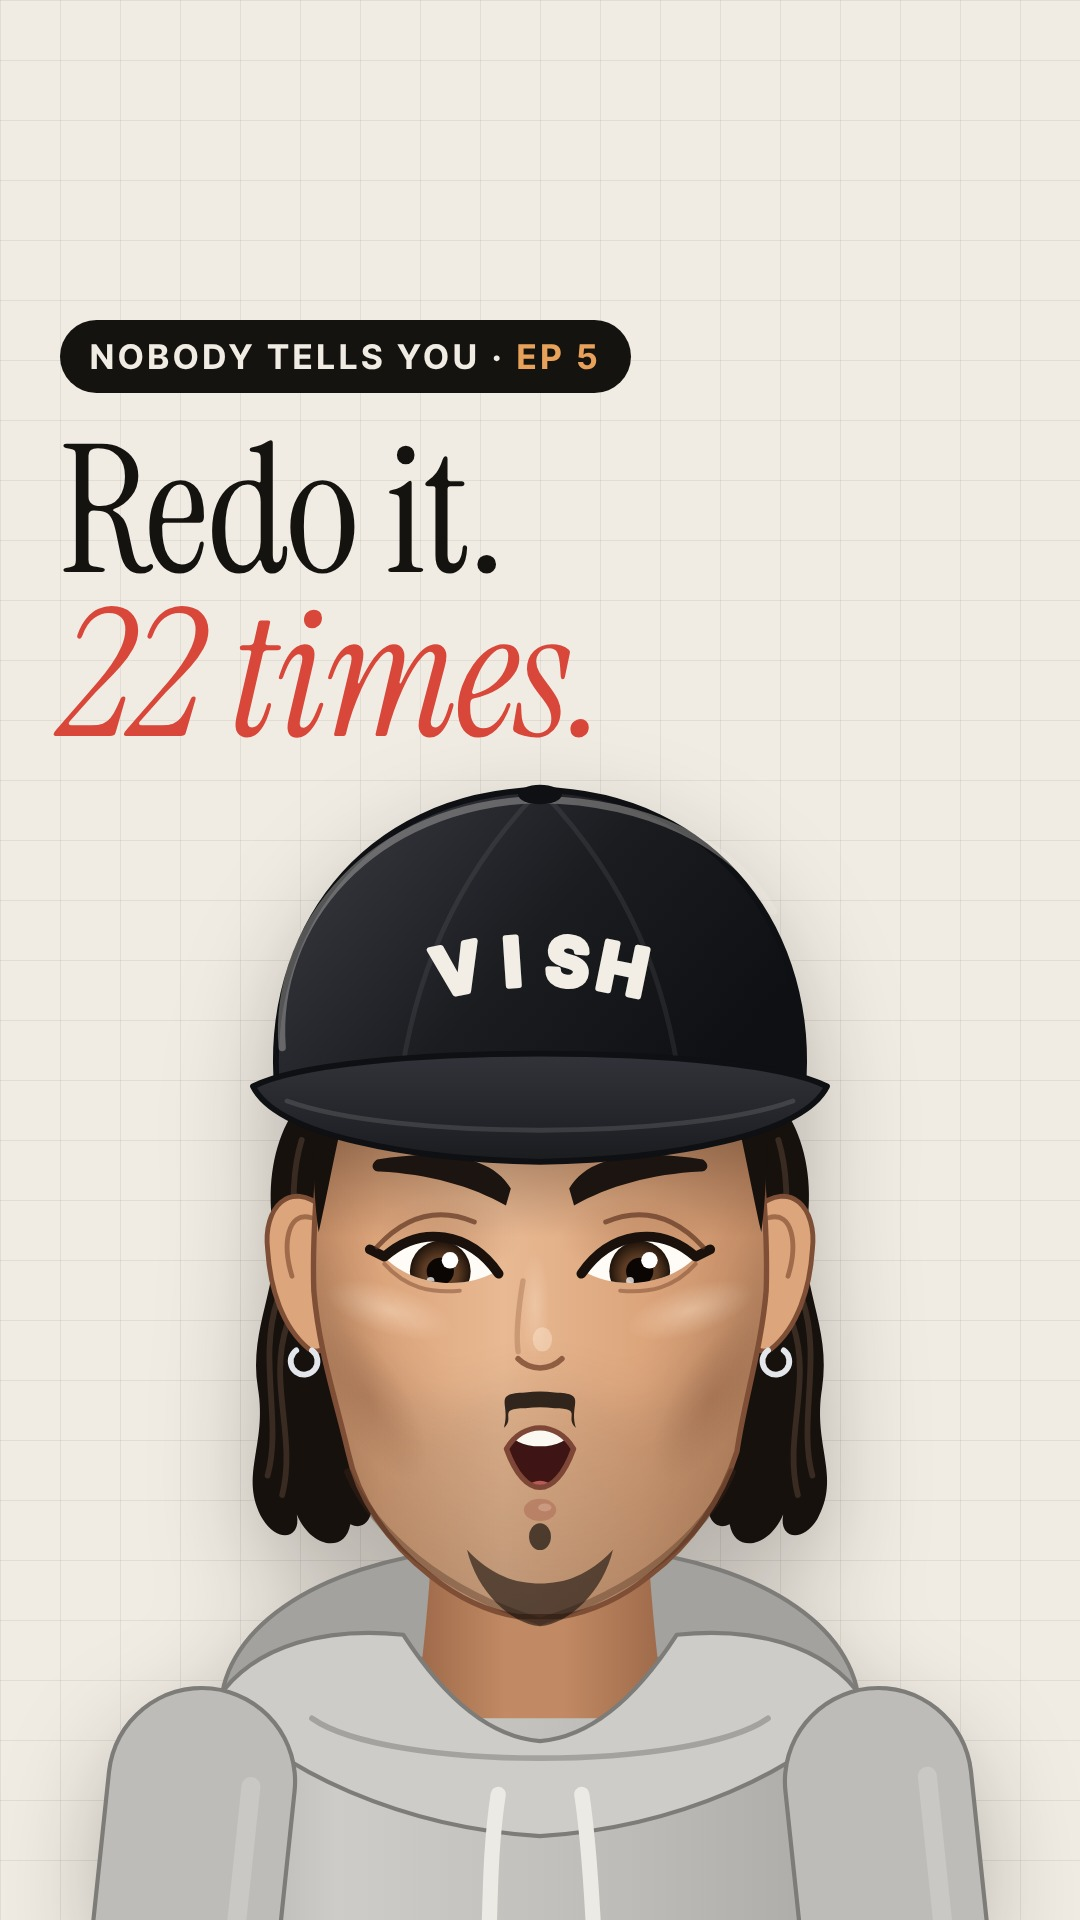
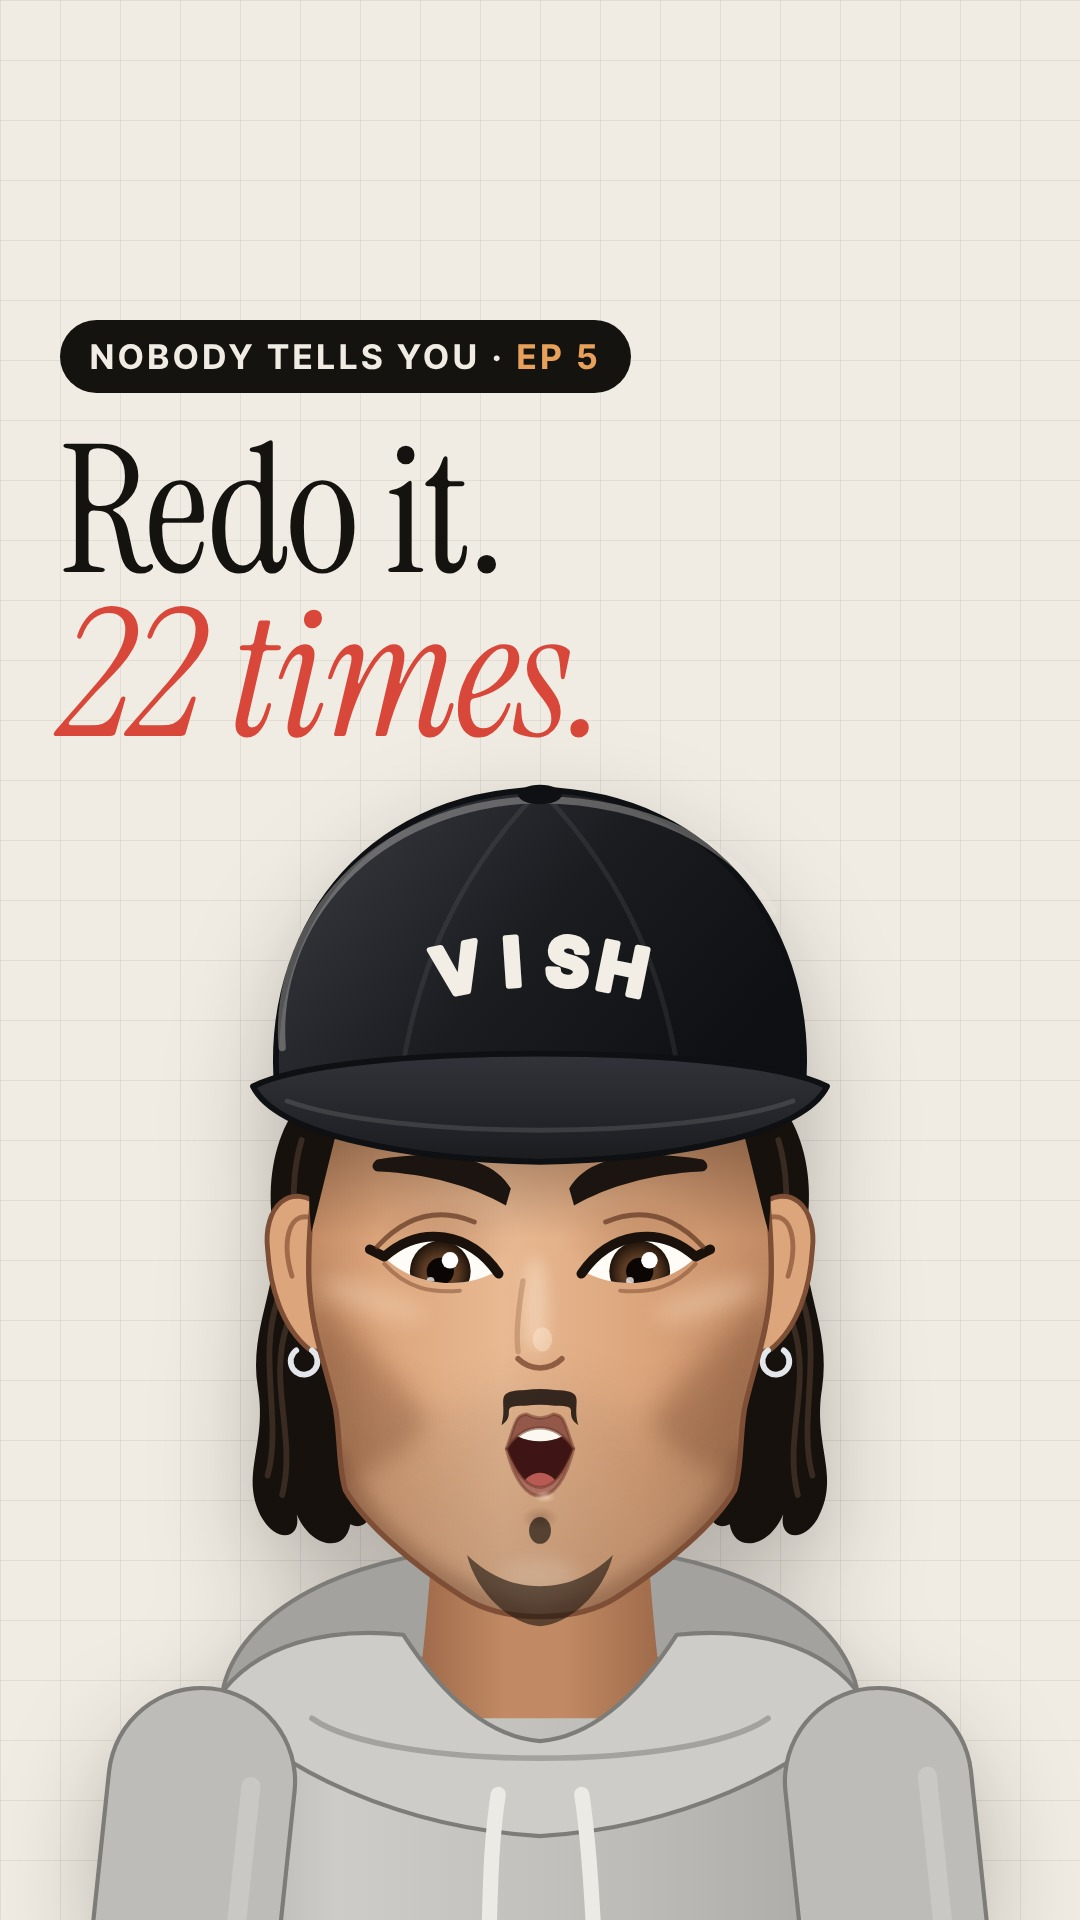
Mascot: real lips (cupid's bow, fuller lower lip), cheekbones with hollows under them, a squared jaw with a clear angle, a lighter beard shade
Claude-Session: https://claude.ai/code/session_01BUA343UgLrj2H1ng6qoZ8Y

diff --git a/templates/video/char/vishcap.js b/templates/video/char/vishcap.js
@@ -66,6 +66,10 @@
     const gr = g.createRadialGradient(0, 0, 0, 0, 0, 1); gr.addColorStop(0, rgb + a + ")"); gr.addColorStop(1, rgb + "0)");
     g.fillStyle = gr; g.beginPath(); g.arc(0, 0, 1, 0, Math.PI * 2); g.fill(); g.restore();
   }
+  function soft(g, path, fill, blur) {  // a painted shade: the path filled and blurred by `blur` rig units
+    const T = g.getTransform(), k = Math.hypot(T.a, T.b);
+    g.save(); g.filter = `blur(${Math.max(0.5, blur * k)}px)`; g.fillStyle = fill; g.fill(path); g.restore();
+  }
   const OFF = new WeakMap();
   function offscreen(g) {  // a scratch canvas the size of the target, for masked layers
     let c = OFF.get(g.canvas);
@@ -118,39 +122,47 @@
       g.restore();
       if (away < 0.5) { g.strokeStyle = C.silver; g.lineWidth = 2.4; g.beginPath(); g.arc(ex + sd * 8, 45, 5.5, -0.3 * Math.PI, 1.3 * Math.PI); g.stroke(); }
     }
-    // ---- the face, a model's: high cheekbones, a slight hollow under them, a sharp jaw, a strong chin
+    // ---- the face, a model's: cheekbones that stand out, a hollow under them, a squared jaw with a clear angle, a strong chin
     const fo = new Path2D();
-    const pts = [[-86, -86], [-90, -50, -94, -12, -93, 16], [-91, 40, -84, 60, -79, 80], [-75, 98, -63, 115, -45, 128], [-33, 137, -21, 142, -9, 144], [9, 144],
-      [21, 142, 33, 137, 45, 128], [63, 115, 75, 98, 81, 80], [84, 60, 91, 40, 93, 16], [94, -12, 90, -50, 86, -86]];
-    fo.moveTo(OX(pts[0][0]), pts[0][1]);
-    for (const p of pts.slice(1)) {
-      if (p.length === 2) fo.lineTo(OX(p[0]), JY(p[1])); else fo.bezierCurveTo(OX(p[0]), JY(p[1]), OX(p[2]), JY(p[3]), OX(p[4]), JY(p[5]));
-    }
+    const L = [[-86, -86], [-90, -50, -96, -14, -95, 12], [-94, 34, -87, 50, -84, 64], [-82, 76, -83, 86, -80, 95], [-72, 108, -52, 124, -32, 136], [-24, 141, -13, 144, 0, 144]];
+    const R2 = [[13, 144, 24, 141, 32, 136], [52, 124, 72, 108, 80, 95], [83, 86, 82, 76, 84, 64], [87, 50, 94, 34, 95, 12], [96, -14, 90, -50, 86, -86]];
+    fo.moveTo(OX(L[0][0]), L[0][1]);
+    for (const p of L.slice(1).concat(R2)) fo.bezierCurveTo(OX(p[0]), JY(p[1]), OX(p[2]), JY(p[3]), OX(p[4]), JY(p[5]));
     fo.closePath();
     const fg = g.createLinearGradient(OX(-96), 0, OX(96), 0);
     fg.addColorStop(0, C.skinS); fg.addColorStop(0.16, C.skin); fg.addColorStop(0.42, C.skinL); fg.addColorStop(0.72, C.skin); fg.addColorStop(1, C.skinS);
     g.fillStyle = fg; g.fill(fo);
     g.save(); g.clip(fo);
-    // contour: a soft shadow under each cheekbone towards the mouth, a light on the bone above it, a light down the nose
+    // the structure, painted like a portrait: the hollow under each cheekbone, the light on the bone, the jaw turning under
     for (const sd of [-1, 1]) {
-      blob(g, OX(sd * 70), JY(60), 15, 38, sd * 0.55, "rgba(118,62,38,", sd * tu > 0 ? 0.3 : 0.22);
-      blob(g, FX(sd * 62), 24, 27, 10, sd * -0.3, "rgba(255,234,210,", 0.42);
+      const X = (x) => OX(sd * x), away = sd * tu > 0;
+      const hol = new Path2D();
+      hol.moveTo(X(96), 20); hol.bezierCurveTo(X(80), 30, X(62), 44, FX(sd * 46), JY(68));
+      hol.bezierCurveTo(X(52), JY(80), X(68), JY(88), X(84), JY(92)); hol.bezierCurveTo(X(90), 64, X(95), 42, X(96), 20); hol.closePath();
+      soft(g, hol, `rgba(112,58,34,${away ? 0.36 : 0.27})`, 5);
+      const bone = new Path2D(); bone.ellipse(FX(sd * 68), 20, 22, 6.5, sd * -0.32, 0, Math.PI * 2);
+      soft(g, bone, "rgba(250,222,192,.34)", 4);
     }
-    blob(g, FX(-2) + tu * 8, 22, 6, 22, 0, "rgba(255,236,214,", 0.3);
-    // stubble: a short, even shadow on the jaw, chin, upper lip and up the cheeks to the sideburns, fading at the cheekbones
+    const jl = new Path2D();
+    jl.moveTo(OX(-86), JY(84)); jl.bezierCurveTo(OX(-74), JY(112), OX(-44), JY(136), FX(0), JY(148));
+    jl.bezierCurveTo(OX(44), JY(136), OX(74), JY(112), OX(86), JY(84));
+    g.save(); const T0 = g.getTransform(), k0 = Math.hypot(T0.a, T0.b); g.filter = `blur(${Math.max(1, 3.5 * k0)}px)`;
+    g.strokeStyle = "rgba(92,48,30,.32)"; g.lineWidth = 13; g.stroke(jl); g.restore();
+    soft(g, (() => { const c = new Path2D(); c.ellipse(FX(0), JY(128), 16, 7, 0, 0, Math.PI * 2); return c; })(), "rgba(255,236,214,.35)", 4);  // light on the chin
+    soft(g, (() => { const c = new Path2D(); c.ellipse(FX(-2) + tu * 8, 22, 5, 20, 0, 0, Math.PI * 2); return c; })(), "rgba(255,238,218,.42)", 3);  // light down the nose
+    // a light, clean beard shade on the jaw, chin and upper lip, fading out up the cheeks
     const bd = new Path2D();
-    bd.moveTo(OX(-96), -24); bd.bezierCurveTo(OX(-86), 18, OX(-66), 48, FX(-38), JY(64));
-    bd.bezierCurveTo(FX(-28), 58, FX(-16), 52, FX(0), 52); bd.bezierCurveTo(FX(16), 52, FX(28), 58, FX(38), JY(64));
-    bd.bezierCurveTo(OX(66), 48, OX(86), 18, OX(96), -24); bd.lineTo(OX(120), 170); bd.lineTo(OX(-120), 170); bd.closePath();
-    // drawn through a soft mask (the region, blurred) so it fades up the cheeks with no edge
+    bd.moveTo(OX(-96), 4); bd.bezierCurveTo(OX(-88), 40, OX(-68), 62, FX(-36), JY(66));
+    bd.bezierCurveTo(FX(-28), 58, FX(-16), 52, FX(0), 52); bd.bezierCurveTo(FX(16), 52, FX(28), 58, FX(36), JY(66));
+    bd.bezierCurveTo(OX(68), 62, OX(88), 40, OX(96), 4); bd.lineTo(OX(120), 170); bd.lineTo(OX(-120), 170); bd.closePath();
     const T = g.getTransform(), k = Math.hypot(T.a, T.b), oc = offscreen(g), o2 = oc.getContext("2d");
     o2.setTransform(1, 0, 0, 1, 0, 0); o2.clearRect(0, 0, oc.width, oc.height); o2.setTransform(T);
     o2.filter = `blur(${Math.max(1, 9 * k)}px)`; o2.fillStyle = "#000"; o2.fill(bd); o2.filter = "none";
     o2.globalCompositeOperation = "source-in";
     const sg = o2.createRadialGradient(FX(0), 6, 50, FX(0), 30, 150);
-    sg.addColorStop(0, "rgba(40,26,18,.07)"); sg.addColorStop(0.5, "rgba(40,26,18,.17)"); sg.addColorStop(1, "rgba(34,22,16,.27)");
+    sg.addColorStop(0, "rgba(40,26,18,.06)"); sg.addColorStop(0.5, "rgba(40,26,18,.14)"); sg.addColorStop(1, "rgba(34,22,16,.22)");
     o2.fillStyle = sg; o2.fillRect(-150, -60, 300, 240);
-    o2.globalCompositeOperation = "source-atop"; o2.globalAlpha = 0.28; o2.fillStyle = stubble(o2); o2.fillRect(-150, -60, 300, 240);
+    o2.globalCompositeOperation = "source-atop"; o2.globalAlpha = 0.22; o2.fillStyle = stubble(o2); o2.fillRect(-150, -60, 300, 240);
     o2.globalAlpha = 1; o2.globalCompositeOperation = "source-over";
     g.save(); g.setTransform(1, 0, 0, 1, 0, 0); g.drawImage(oc, 0, 0); g.restore();
     // the cap's shadow on the forehead and the eye sockets
@@ -159,13 +171,10 @@
     for (const sd of [-1, 1]) blob(g, FX(sd * 38), -6, 30, 16, 0, "rgba(110,60,36,", 0.16);
     g.restore();
     g.strokeStyle = C.line; g.lineWidth = 2.2; g.stroke(fo);
-    // a crisp jaw: a darker line under the jaw edge where it meets the neck
-    g.strokeStyle = "rgba(70,40,26,.35)"; g.lineWidth = 3;
-    g.beginPath(); g.moveTo(OX(-79), JY(88)); g.bezierCurveTo(OX(-68), JY(112), OX(-40), JY(134), FX(0), JY(146)); g.bezierCurveTo(OX(40), JY(134), OX(68), JY(112), OX(79), JY(88)); g.stroke();
-    // sideburns in front of the ears, under the cap, faded into the stubble
+    // sideburns in front of the ears, under the cap, faded into the beard shade
     for (const sd of [-1, 1]) {
-      g.fillStyle = C.hair; g.beginPath(); g.moveTo(OX(sd * 89), -82); g.bezierCurveTo(OX(sd * 94), -56, OX(sd * 94), -30, OX(sd * 91), -8);
-      g.bezierCurveTo(OX(sd * 86), -30, OX(sd * 81), -60, OX(sd * 74), -82); g.closePath(); g.fill();
+      g.fillStyle = C.hair; g.beginPath(); g.moveTo(OX(sd * 89), -82); g.bezierCurveTo(OX(sd * 95), -56, OX(sd * 96), -30, OX(sd * 94), -8);
+      g.bezierCurveTo(OX(sd * 88), -30, OX(sd * 82), -60, OX(sd * 74), -82); g.closePath(); g.fill();
     }
 
     // ---- eyes, brows
@@ -267,67 +276,75 @@
     g.fillStyle = C.brow; g.fill(b);
   }
 
-  // the mouth: o open, w wide, s smile (-1 frown .. 1 smile), r round, a asymmetry (smirk), f lower lip under the teeth
+  // the mouth: o open, w wide, s smile (-1 frown .. 1 smile), r round, a asymmetry (smirk), f lower lip under the teeth.
+  // Real lips: an upper lip with a cupid's bow, a fuller lower lip with a highlight, both following the opening.
   function mouth(g, FX, JY, m) {
-    const y0 = 81, o = m.o, hw = 21 + 12 * m.w - 9 * m.r, sm = m.s;
+    const y0 = 81, o = m.o, hw = 21 + 12 * m.w - 9 * m.r, sm = m.s, op = cl(o / 0.15);
     const lc = [FX(-hw), y0 - sm * 6 + m.a * 5], rc = [FX(hw), y0 - sm * 6 - m.a * 6];
+    const cxm = FX(0) + m.a * 3, seam = y0 + sm * 7 + 1;
     const topY = y0 - 1 - o * 4 - m.r * o * 5, botY = JY(y0 + 2 + o * 28 + Math.max(0, sm) * 3 * o);
-    const cxm = FX(0) + m.a * 3;
+    const tY = lerp(seam, topY - m.r * 6, op), bY = lerp(seam, botY + 2, op), bx = lerp(0.45, 0.6 - m.r * 0.15, op);
+    const top = [[cxm - hw * 0.5, tY], [cxm + hw * 0.5, tY]], bot = [[cxm - hw * bx, bY], [cxm + hw * bx, bY]];
+    const midT = (lc[1] + 6 * tY + rc[1]) / 8, midB = (lc[1] + 6 * bY + rc[1]) / 8;
+    const tU = 7.5 * (1 - 0.3 * m.w) * (1 - 0.3 * op), tL = 9.5 * (1 - 0.3 * m.w) * (1 - 0.15 * op);
     // smile lines beside the corners
     if (sm > 0.5) {
-      g.strokeStyle = `rgba(140,84,56,${0.32 * (sm - 0.5) * 2})`; g.lineWidth = 2; g.lineCap = "round";
-      for (const [c, sd] of [[lc, -1], [rc, 1]]) { g.beginPath(); g.moveTo(c[0] + sd * 3, c[1] - 20); g.quadraticCurveTo(c[0] + sd * 10, c[1] - 5, c[0] + sd * 5, c[1] + 8); g.stroke(); }
+      g.strokeStyle = `rgba(140,84,56,${0.3 * (sm - 0.5) * 2})`; g.lineWidth = 2; g.lineCap = "round";
+      for (const [c, sd] of [[lc, -1], [rc, 1]]) { g.beginPath(); g.moveTo(c[0] + sd * 4, c[1] - 22); g.quadraticCurveTo(c[0] + sd * 11, c[1] - 6, c[0] + sd * 6, c[1] + 8); g.stroke(); }
     }
-    let lowerTop;
-    if (o < 0.05) {
-      if (m.teeth && sm > 0.6) {  // a closed smile that shows the top teeth
-        const sh = new Path2D(); sh.moveTo(lc[0], lc[1]); sh.bezierCurveTo(cxm - hw * 0.5, y0 + 2, cxm + hw * 0.5, y0 + 2, rc[0], rc[1]);
-        sh.bezierCurveTo(cxm + hw * 0.5, y0 + 13, cxm - hw * 0.5, y0 + 13, lc[0], lc[1]); sh.closePath();
-        g.fillStyle = C.mouthIn; g.fill(sh); g.save(); g.clip(sh); g.fillStyle = C.teeth; g.fillRect(lc[0] - 4, y0 - 6, hw * 2 + 8, 13); g.restore();
-        g.strokeStyle = C.lipD; g.lineWidth = 2.2; g.stroke(sh); lowerTop = y0 + 10;
-      } else {
-        g.strokeStyle = C.lipD; g.lineWidth = 3; g.lineCap = "round";
-        g.beginPath(); g.moveTo(lc[0], lc[1]); g.bezierCurveTo(cxm - hw * 0.45, y0 + sm * 7 + 1, cxm + hw * 0.45, y0 + sm * 7 + 1, rc[0], rc[1]); g.stroke();
-        lowerTop = y0 + 2 + Math.max(0, sm) * 5;
-      }
-    } else {
+    // the opening, the teeth, the tongue
+    if (o > 0.02) {
       const mp = new Path2D();
-      mp.moveTo(lc[0], lc[1]);
-      mp.bezierCurveTo(cxm - hw * 0.5, topY - m.r * 6, cxm + hw * 0.5, topY - m.r * 6, rc[0], rc[1]);
-      mp.bezierCurveTo(cxm + hw * (0.6 - m.r * 0.15), botY + 2, cxm - hw * (0.6 - m.r * 0.15), botY + 2, lc[0], lc[1]);
-      mp.closePath();
+      mp.moveTo(lc[0], lc[1]); mp.bezierCurveTo(top[0][0], top[0][1], top[1][0], top[1][1], rc[0], rc[1]);
+      mp.bezierCurveTo(bot[1][0], bot[1][1], bot[0][0], bot[0][1], lc[0], lc[1]); mp.closePath();
       g.fillStyle = C.mouthIn; g.fill(mp);
       g.save(); g.clip(mp);
-      g.fillStyle = C.teeth; g.beginPath(); g.ellipse(cxm, topY - 2, hw * 0.92, 9.5 - m.r * 3, 0, 0, Math.PI * 2); g.fill();  // the upper teeth
-      if (m.f > 0.3) { g.fillStyle = C.lip; g.beginPath(); g.ellipse(cxm, topY + 10, hw * 0.8, 7, 0, 0, Math.PI * 2); g.fill(); }
-      g.fillStyle = C.tongue; g.beginPath(); g.ellipse(cxm, botY + 3, hw * 0.6, 4 + o * 10, 0, 0, Math.PI * 2); g.fill();
+      g.fillStyle = C.teeth; g.beginPath(); g.ellipse(cxm, midT - 1, hw * 0.92, 9.5 - m.r * 3, 0, 0, Math.PI * 2); g.fill();
+      if (m.f > 0.3) { g.fillStyle = C.lip; g.beginPath(); g.ellipse(cxm, midT + 10, hw * 0.8, 7, 0, 0, Math.PI * 2); g.fill(); }
+      g.fillStyle = C.tongue; g.beginPath(); g.ellipse(cxm, midB + 3, hw * 0.6, 4 + o * 10, 0, 0, Math.PI * 2); g.fill();
       g.restore();
-      g.strokeStyle = C.lipD; g.lineWidth = 2.2; g.stroke(mp); lowerTop = botY + 1;
     }
-    // the lower lip: a soft shape and a highlight
-    g.fillStyle = "rgba(164,92,74,.42)"; g.beginPath(); g.ellipse(cxm, lowerTop + 5, hw * 0.48, 4.6, 0, 0, Math.PI * 2); g.fill();
-    g.fillStyle = "rgba(255,226,206,.25)"; g.beginPath(); g.ellipse(cxm + 2, lowerTop + 4, hw * 0.2, 1.6, 0, 0, Math.PI * 2); g.fill();
-    // the moustache: thin, the ends down to the mouth corners; it rides up with the upper lip
+    // the upper lip: a cupid's bow above the opening
+    const ul = new Path2D();
+    ul.moveTo(lc[0], lc[1]);
+    ul.bezierCurveTo(lc[0] + hw * 0.3, midT - tU * 0.65, cxm - 10, midT - tU, cxm - 5.5, midT - tU - 0.6);
+    ul.quadraticCurveTo(cxm, midT - tU + 2.6, cxm + 5.5, midT - tU - 0.6);
+    ul.bezierCurveTo(cxm + 10, midT - tU, rc[0] - hw * 0.3, midT - tU * 0.65, rc[0], rc[1]);
+    ul.bezierCurveTo(top[1][0], top[1][1], top[0][0], top[0][1], lc[0], lc[1]); ul.closePath();
+    g.fillStyle = "#93584A"; g.fill(ul); g.strokeStyle = "rgba(108,56,42,.55)"; g.lineWidth = 1.3; g.stroke(ul);
+    // the lower lip: fuller, lighter, a highlight, a soft shadow under it
+    const ll = new Path2D();
+    ll.moveTo(lc[0], lc[1]); ll.bezierCurveTo(bot[0][0], bot[0][1], bot[1][0], bot[1][1], rc[0], rc[1]);
+    ll.bezierCurveTo(cxm + hw * 0.55, midB + tL * 1.3, cxm - hw * 0.55, midB + tL * 1.3, lc[0], lc[1]); ll.closePath();
+    blob(g, cxm, midB + tL + 5, hw * 0.55, 5, 0, "rgba(90,46,30,", 0.3);
+    g.fillStyle = "#AD6F61"; g.fill(ll); g.strokeStyle = "rgba(108,56,42,.5)"; g.lineWidth = 1.3; g.stroke(ll);
+    blob(g, cxm + 2, midB + tL * 0.5, hw * 0.32, 2.6, 0, "rgba(255,228,212,", 0.55);
+    // the line where the lips meet (closed)
+    if (o <= 0.02) {
+      g.strokeStyle = "#5E2E24"; g.lineWidth = 2.2; g.lineCap = "round";
+      g.beginPath(); g.moveTo(lc[0], lc[1]); g.bezierCurveTo(top[0][0], top[0][1], top[1][0], top[1][1], rc[0], rc[1]); g.stroke();
+    }
+    // the moustache: thin, above the upper lip, the ends down to the corners; it rides up with the lip
     const lift = Math.min(0, topY - (y0 - 1)) * 0.6;
     g.save(); g.translate(0, lift);
     const mu = new Path2D();
-    const ey = (c) => Math.min(c[1] - 3, y0 - 6);
-    mu.moveTo(lc[0] - 1, ey(lc));
-    mu.bezierCurveTo(lc[0] + 2, y0 - 16, FX(-20), 61, FX(-6), 60.5);
-    mu.bezierCurveTo(FX(-2), 60, FX(2), 60, FX(6), 60.5);
-    mu.bezierCurveTo(FX(20), 61, rc[0] - 2, y0 - 16, rc[0] + 1, ey(rc));
-    mu.bezierCurveTo(rc[0] - 4, y0 - 10, FX(18), 67, FX(6), 67);
-    mu.bezierCurveTo(FX(2), 66.5, FX(-2), 66.5, FX(-6), 67);
-    mu.bezierCurveTo(FX(-18), 67, lc[0] + 4, y0 - 10, lc[0] - 1, ey(lc));
-    mu.closePath(); g.fillStyle = "rgba(26,18,14,.88)"; g.fill(mu);
+    const ey = (c) => Math.min(c[1] - 4, y0 - 7);
+    mu.moveTo(lc[0] - 2, ey(lc));
+    mu.bezierCurveTo(lc[0] + 1, y0 - 17, FX(-20), 60, FX(-6), 59.5);
+    mu.bezierCurveTo(FX(-2), 59, FX(2), 59, FX(6), 59.5);
+    mu.bezierCurveTo(FX(20), 60, rc[0] - 1, y0 - 17, rc[0] + 2, ey(rc));
+    mu.bezierCurveTo(rc[0] - 5, y0 - 12, FX(18), 66, FX(6), 66);
+    mu.bezierCurveTo(FX(2), 65.5, FX(-2), 65.5, FX(-6), 66);
+    mu.bezierCurveTo(FX(-18), 66, lc[0] + 5, y0 - 12, lc[0] - 2, ey(lc));
+    mu.closePath(); g.fillStyle = "rgba(26,18,14,.86)"; g.fill(mu);
     g.restore();
     // the chin beard: a small patch under the lip, a pointed beard on the chin
-    const by = lowerTop + 16;
-    g.fillStyle = "rgba(26,18,14,.7)"; g.beginPath(); g.ellipse(cxm, by, 4.5, 5.5, 0, 0, Math.PI * 2); g.fill();
+    const by = midB + tL + 10;
+    g.fillStyle = "rgba(26,18,14,.66)"; g.beginPath(); g.ellipse(cxm, by, 4.5, 5.5, 0, 0, Math.PI * 2); g.fill();
     const cb = new Path2D();
-    cb.moveTo(FX(-30), JY(118)); cb.bezierCurveTo(FX(-20), JY(128), FX(-10), JY(131), FX(0), JY(131)); cb.bezierCurveTo(FX(10), JY(131), FX(20), JY(128), FX(30), JY(118));
-    cb.bezierCurveTo(FX(26), JY(134), FX(12), JY(147), FX(0), JY(148)); cb.bezierCurveTo(FX(-12), JY(147), FX(-26), JY(134), FX(-30), JY(118)); cb.closePath();
-    g.fillStyle = "rgba(26,18,14,.62)"; g.fill(cb);
+    cb.moveTo(FX(-30), JY(120)); cb.bezierCurveTo(FX(-20), JY(129), FX(-10), JY(132), FX(0), JY(132)); cb.bezierCurveTo(FX(10), JY(132), FX(20), JY(129), FX(30), JY(120));
+    cb.bezierCurveTo(FX(26), JY(135), FX(12), JY(147), FX(0), JY(148)); cb.bezierCurveTo(FX(-12), JY(147), FX(-26), JY(135), FX(-30), JY(120)); cb.closePath();
+    g.fillStyle = "rgba(26,18,14,.6)"; g.fill(cb);
   }
 
   // ----------------------------------------------------------------------------------------------------- hands
